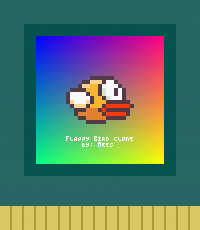
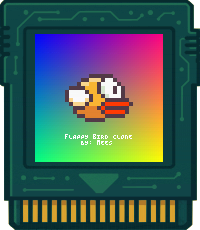
fix makefile

diff --git a/src/main.c b/src/main.c
@@ -23,7 +23,7 @@ SDL_Window* window;
 SDL_Texture* render_target;
 
 void play_game();
-void export_cartridge(char*,char*,char*);
+void export_cartridge(char*,char*,char*,char*);
 void load_game(char*);
 
 void print_usage() {
@@ -149,7 +149,7 @@ void export_cartridge(char* sprite, char* script, char* cover, char* path) {
     uint8_t* coverbuffer = (uint8_t*)malloc(TB_SCREEN_WIDTH * TB_SCREEN_HEIGHT * 4);
 
     // fill buffer with cartridge image
-    SDL_Surface* cartridge = IMG_Load("assets/cartridge.png");
+    SDL_Surface* cartridge = IMG_Load("assets/cartridge2.png");
     if (!cartridge) {
         printf("%s\n", IMG_GetError());
         exit(EXIT_FAILURE);
@@ -174,7 +174,7 @@ void export_cartridge(char* sprite, char* script, char* cover, char* path) {
     // add cover image to cartridge buffer
     for (int y = 0; y < TB_SCREEN_HEIGHT; ++y) {
         for (int x = 0; x < TB_SCREEN_WIDTH; ++x) {
-            uint32_t* target_pixel = (uint32_t*)(buffer + ((y+36) * TB_CARTRIDGE_WIDTH + (x+36)) * 4);
+            uint32_t* target_pixel = (uint32_t*)(buffer + ((y+34) * TB_CARTRIDGE_WIDTH + (x+35)) * 4);
             uint8_t r = coverbuffer[(y * TB_SCREEN_WIDTH + x) * 4];
             uint8_t g = coverbuffer[(y * TB_SCREEN_WIDTH + x) * 4 + 1];
             uint8_t b = coverbuffer[(y * TB_SCREEN_WIDTH + x) * 4 + 2];
@@ -240,7 +240,7 @@ void export_cartridge(char* sprite, char* script, char* cover, char* path) {
 
     SDL_FreeSurface(cartridge);
     SDL_FreeSurface(surface);
-    SDL_FreeSurface(sprite);
+    SDL_FreeSurface(spritesheet);
     IMG_Quit();
     SDL_Quit();
 
